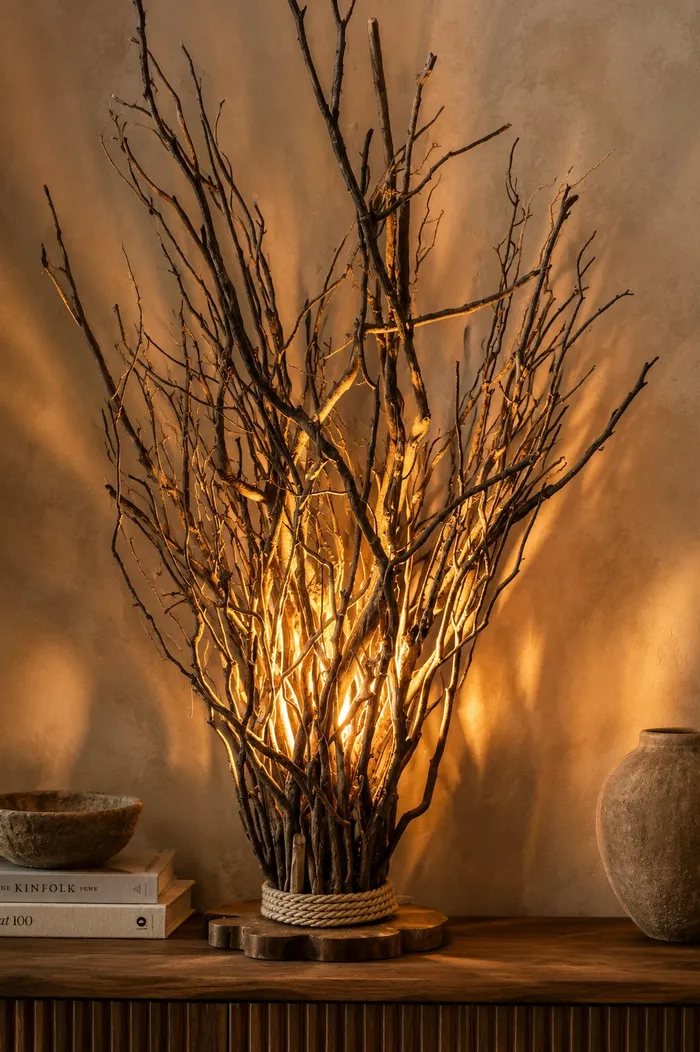
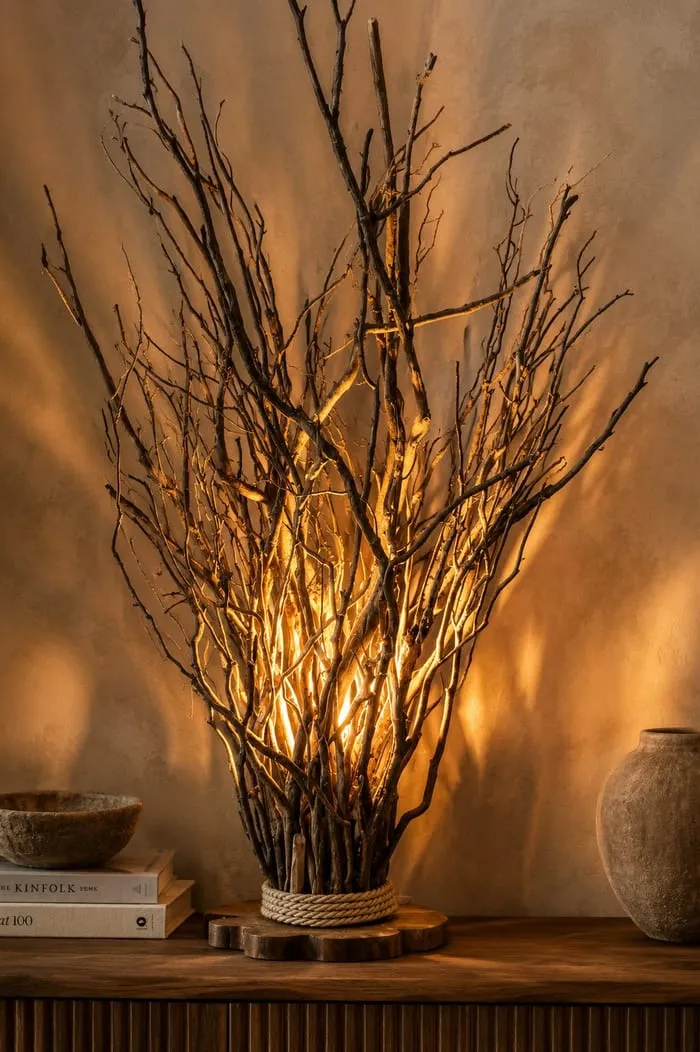
feat(home): add clay + cement hero photos (optimized)
Fill the remaining two hero-art frames with product photos via <picture>
(WebP + JPG fallback, eager, width/height for CLS). All three hero images now
downscaled to 700px and WebP-optimized (clay 46KB, cement 35KB, lamp 93KB).

diff --git a/src/routes/index.tsx b/src/routes/index.tsx
@@ -97,8 +97,30 @@ function Index() {
                 />
               </picture>
             </div>
-            <div className="frame tilt" data-label="Clay vessel"></div>
-            <div className="frame tilt" data-label="Cement sculpture"></div>
+            <div className="frame tilt has-photo" data-label="Clay vessel">
+              <picture>
+                <source srcSet="/hero-clay.webp" type="image/webp" />
+                <img
+                  src="/hero-clay.jpg"
+                  alt="Handmade clay vessel"
+                  loading="eager"
+                  width={640}
+                  height={600}
+                />
+              </picture>
+            </div>
+            <div className="frame tilt has-photo" data-label="Cement sculpture">
+              <picture>
+                <source srcSet="/hero-cement.webp" type="image/webp" />
+                <img
+                  src="/hero-cement.jpg"
+                  alt="Hand-cast cement sculpture"
+                  loading="eager"
+                  width={640}
+                  height={480}
+                />
+              </picture>
+            </div>
           </div>
         </div>
         <div className="floating">